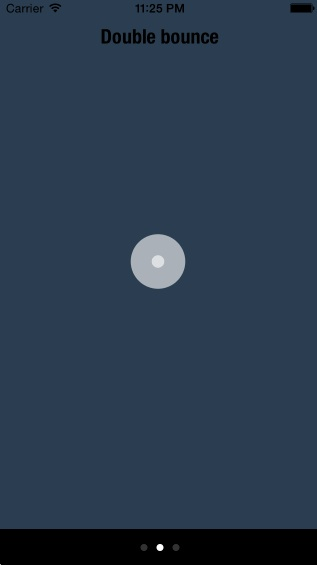
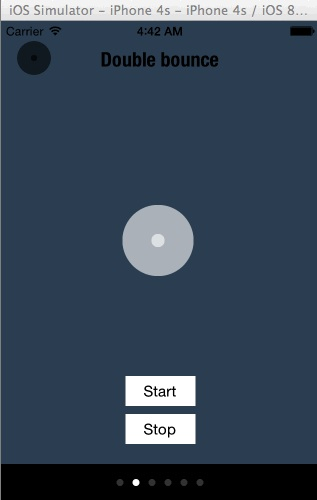
add new animation: Spotify

diff --git a/Classes/DTIAnimSpotify.swift b/Classes/DTIAnimSpotify.swift
@@ -1,0 +1,104 @@
+//
+//  DTIAnimSpotify.swift
+//  SampleObjc
+//
+//  Created by dtissera on 16/08/2014.
+//  Copyright (c) 2014 o--O--o. All rights reserved.
+//
+
+import UIKit
+import QuartzCore
+
+class DTIAnimSpotify: DTIAnimProtocol {
+    /** private properties */
+    private let owner: DTIActivityIndicatorView
+    
+    private let spinnerView = UIView()
+    private let circleView = UIView()
+    private let animationDuration = CFTimeInterval(1.2)
+    private let circleCount = 3
+    
+    /** ctor */
+    init(indicatorView: DTIActivityIndicatorView) {
+        self.owner = indicatorView
+        
+        for var index = 0; index < circleCount; ++index {
+            let layer = CALayer()
+            
+            self.circleView.layer.addSublayer(layer)
+        }
+    }
+    
+    // -------------------------------------------------------------------------
+    // DTIAnimProtocol
+    // -------------------------------------------------------------------------
+    func needLayoutSubviews() {
+        self.spinnerView.frame = self.owner.bounds
+        
+        let contentSize = self.owner.bounds.size
+        let circleWidth: CGFloat = contentSize.width / CGFloat(circleCount*2+1)
+        let posY: CGFloat = (contentSize.height-circleWidth)/2
+        
+        self.circleView.frame = self.owner.bounds
+        self.spinnerView.layer.cornerRadius = circleWidth/2
+        
+        for var index = 0; index < circleCount; ++index {
+            let circleLayer = self.circleView.layer.sublayers[index] as CALayer
+            circleLayer.frame = CGRect(x: circleWidth+CGFloat(index)*(circleWidth*2), y: posY, width: circleWidth, height: circleWidth)
+            
+            circleLayer.cornerRadius = circleWidth/2
+            //circleLayer.transform = CATransform3DMakeScale(2.0, 2.0, 0.0);
+        }
+    }
+    
+    func needUpdateColor() {
+        // Debug stuff
+        self.spinnerView.backgroundColor = UIColor.grayColor()
+
+        for var index = 0; index < circleCount; ++index {
+            let circleLayer = self.circleView.layer.sublayers[index] as CALayer
+            circleLayer.backgroundColor = self.owner.indicatorColor.CGColor
+        }
+    }
+    
+    func setUp() {
+        self.spinnerView.addSubview(self.circleView)
+        //self.spinnerView.layer.shouldRasterize = true
+    }
+    
+    func startActivity() {
+        self.owner.addSubview(self.spinnerView)
+
+        let beginTime = CACurrentMediaTime() + self.animationDuration;
+        for var index = 0; index < circleCount; ++index {
+            let circleLayer = self.circleView.layer.sublayers[index] as CALayer
+            
+            let aniScale = CAKeyframeAnimation()
+            aniScale.keyPath = "transform.scale"
+            aniScale.values = [1.0, 1.7, 1.0, 1.0]
+            aniScale.removedOnCompletion = false
+            aniScale.repeatCount = HUGE
+            aniScale.beginTime = beginTime - self.animationDuration + CFTimeInterval(index) * 0.2;
+            aniScale.keyTimes = [0.0, 0.2, 0.4, 1.0];
+            aniScale.timingFunctions = [
+                CAMediaTimingFunction(name: kCAMediaTimingFunctionEaseInEaseOut),
+                CAMediaTimingFunction(name: kCAMediaTimingFunctionEaseInEaseOut),
+                CAMediaTimingFunction(name: kCAMediaTimingFunctionEaseInEaseOut),
+                CAMediaTimingFunction(name: kCAMediaTimingFunctionEaseInEaseOut)
+            ]
+            aniScale.duration = self.animationDuration
+            
+            circleLayer.addAnimation(aniScale, forKey: "DTIAnimSpotify~scale")
+        }
+    }
+    
+    func stopActivity() {
+        self.spinnerView.removeFromSuperview()
+        
+        // Remove animations
+        for var index = 0; index < circleCount; ++index {
+            let circleLayer = self.circleView.layer.sublayers[index] as CALayer
+            circleLayer.removeAllAnimations()
+        }
+    }
+}

diff --git a/Classes/DTIAnimWave.swift b/Classes/DTIAnimWave.swift
@@ -26,7 +26,6 @@ class DTIAnimWave: DTIAnimProtocol {
             let layer = CALayer()
             layer.transform = CATransform3DMakeScale(1.0, 0.4, 0.0);
             
-
             self.rectView.layer.addSublayer(layer)
         }
     }
@@ -44,7 +43,6 @@ class DTIAnimWave: DTIAnimProtocol {
 
         for var index = 0; index < rectCount; ++index {
             let rectLayer = self.rectView.layer.sublayers[index] as CALayer
-            let dx: CGFloat = 0;
             rectLayer.frame = CGRect(x: CGFloat(index)*(rectWidth+spaceBetweenRect), y: 0.0, width: rectWidth, height: contentSize.height)
         }
     }
@@ -77,7 +75,6 @@ class DTIAnimWave: DTIAnimProtocol {
             aniScale.repeatCount = HUGE
             aniScale.duration = self.animationDuration
             aniScale.beginTime = beginTime - self.animationDuration + CFTimeInterval(index) * 0.1;
-            println(aniScale.beginTime)
             aniScale.keyTimes = [0.0, 0.2, 0.4, 1.0];
             aniScale.timingFunctions = [
                 CAMediaTimingFunction(name: kCAMediaTimingFunctionEaseInEaseOut),

diff --git a/Classes/DTIIndicatorStyle.swift b/Classes/DTIIndicatorStyle.swift
@@ -7,7 +7,7 @@
 //
 
 enum DTIIndicatorStyle {
-    case rotatingPane, doubleBounce, wave, chasingDots, pulse
+    case rotatingPane, doubleBounce, wave, chasingDots, pulse, spotify
     
     static let defaultValue = DTIIndicatorStyle.chasingDots
     
@@ -18,6 +18,7 @@ enum DTIIndicatorStyle {
         case "wave": return .wave
         case "chasingDots": return .chasingDots
         case "pulse": return .pulse
+        case "spotify": return .spotify
         default: return defaultValue
         }
     }
@@ -29,6 +30,7 @@ enum DTIIndicatorStyle {
         case .wave: return "wave"
         case .chasingDots: return "chasingDots"
         case .pulse: return "pulse"
+        case .spotify: return "spotify"
         default: return "?"
         }
     }

diff --git a/Classes/DTIActivityIndicatorView.swift b/Classes/DTIActivityIndicatorView.swift
@@ -59,6 +59,7 @@ class DTIActivityIndicatorView: UIView {
         case .wave:self.currentAnimation = DTIAnimWave(indicatorView: self)
         case .chasingDots:self.currentAnimation = DTIAnimChasingDots(indicatorView: self)
         case .pulse:self.currentAnimation = DTIAnimPulse(indicatorView: self)
+        case .spotify:self.currentAnimation = DTIAnimSpotify(indicatorView: self)
         }
         
         self.setUpColors()

diff --git a/SampleObjc/SampleObjc/ContentVc.m b/SampleObjc/SampleObjc/ContentVc.m
@@ -27,10 +27,14 @@
     self.labelTitle.text = _title;
     self.activityIndicatorView.indicatorStyle = _style;
     [self.activityIndicatorView startActivity];
+    
+    self.smallActivityIndicatorView.indicatorStyle = _style;
+    [self.smallActivityIndicatorView startActivity];
 }
 
 - (void)dealloc {
     [self.activityIndicatorView stopActivity];
+    [self.smallActivityIndicatorView stopActivity];
 }
 
 #pragma mark - public methods
@@ -47,10 +51,12 @@
 #pragma mark - IBActions
 - (IBAction)actionStart:(id)sender {
     [self.activityIndicatorView startActivity];
+    [self.smallActivityIndicatorView startActivity];
 }
 
 - (IBAction)actionStop:(id)sender {
     [self.activityIndicatorView stopActivity];
+    [self.smallActivityIndicatorView stopActivity];
 }
 
 @end

diff --git a/SampleObjc/SampleObjc/ViewController.m b/SampleObjc/SampleObjc/ViewController.m
@@ -26,7 +26,8 @@
                    @{@"title": @"Double bounce", @"color": @"#2c3e50", @"style": @"doubleBounce"},
                    @{@"title": @"Wave", @"color": @"#1abc9c", @"style": @"wave"},
                    @{@"title": @"Chasing dots", @"color": @"#f1c40f", @"style": @"chasingDots"},
-                   @{@"title": @"Pulse", @"color": @"#7f8c8d", @"style": @"pulse"}
+                   @{@"title": @"Pulse", @"color": @"#7f8c8d", @"style": @"pulse"},
+                   @{@"title": @"Spotify", @"color": @"#e0e2e3", @"style": @"spotify"}
                    ];
     
     // Create page view controller

diff --git a/SampleObjc/SampleObjc/ContentVc.h b/SampleObjc/SampleObjc/ContentVc.h
@@ -13,6 +13,7 @@
 
 @property (weak, nonatomic) IBOutlet UILabel *labelTitle;
 @property (weak, nonatomic) IBOutlet DTIActivityIndicatorView *activityIndicatorView;
+@property (weak, nonatomic) IBOutlet DTIActivityIndicatorView *smallActivityIndicatorView;
 
 @property (nonatomic, readonly) NSUInteger pageIndex;
 

diff --git a/README.md b/README.md
@@ -7,6 +7,7 @@ Animated custom ActivityIndicator inspired from css library SpinKit. Written in 
 <img src="Shots/wave.gif"/> &nbsp;
 <img src="Shots/pulse.gif"/> &nbsp;
 <img src="Shots/chasingdots.gif"/> &nbsp;
+<img src="Shots/spotify.gif"/> &nbsp;
 
 ### Installation
 Support for swift project is not yet supported by cocoapod.
